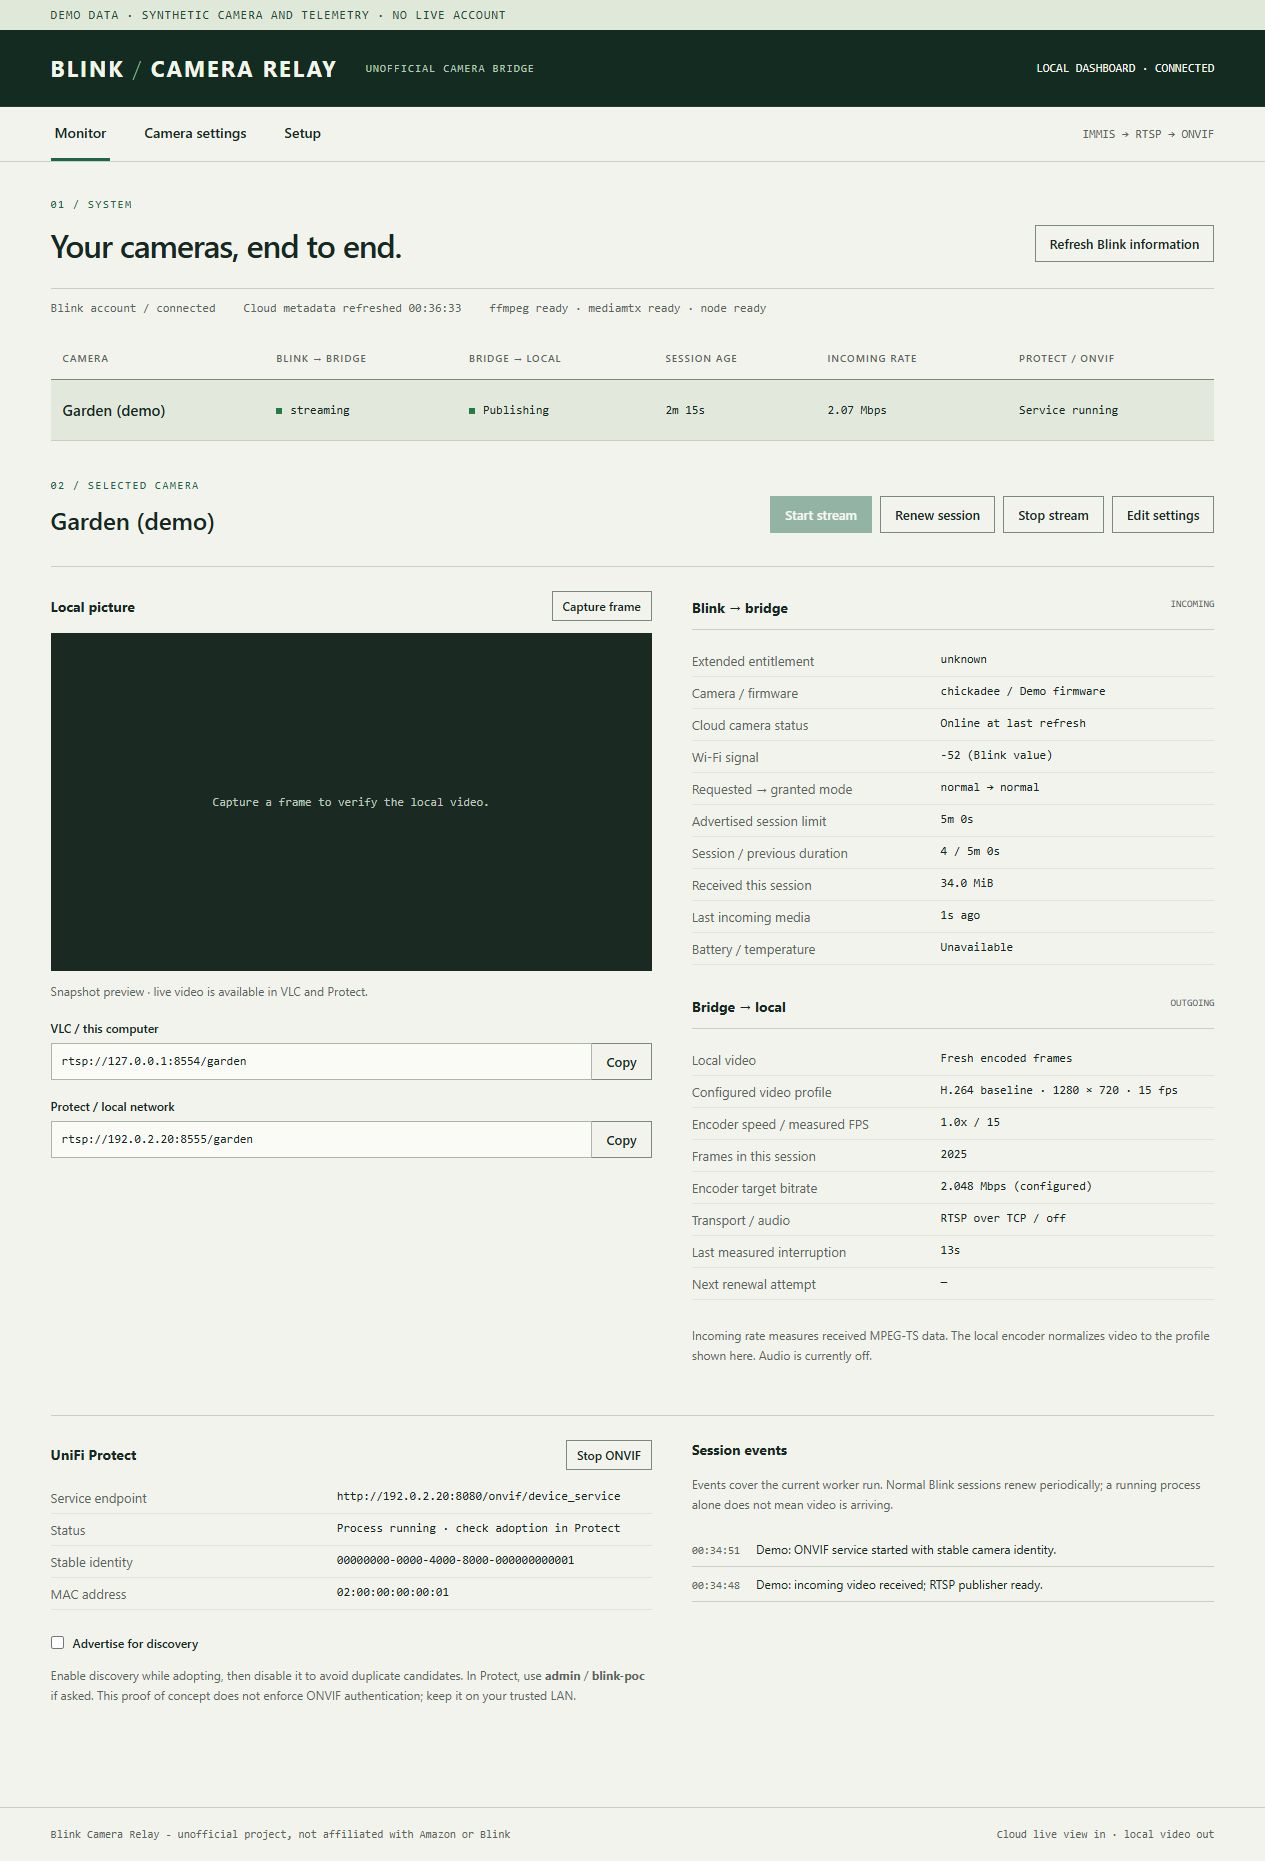
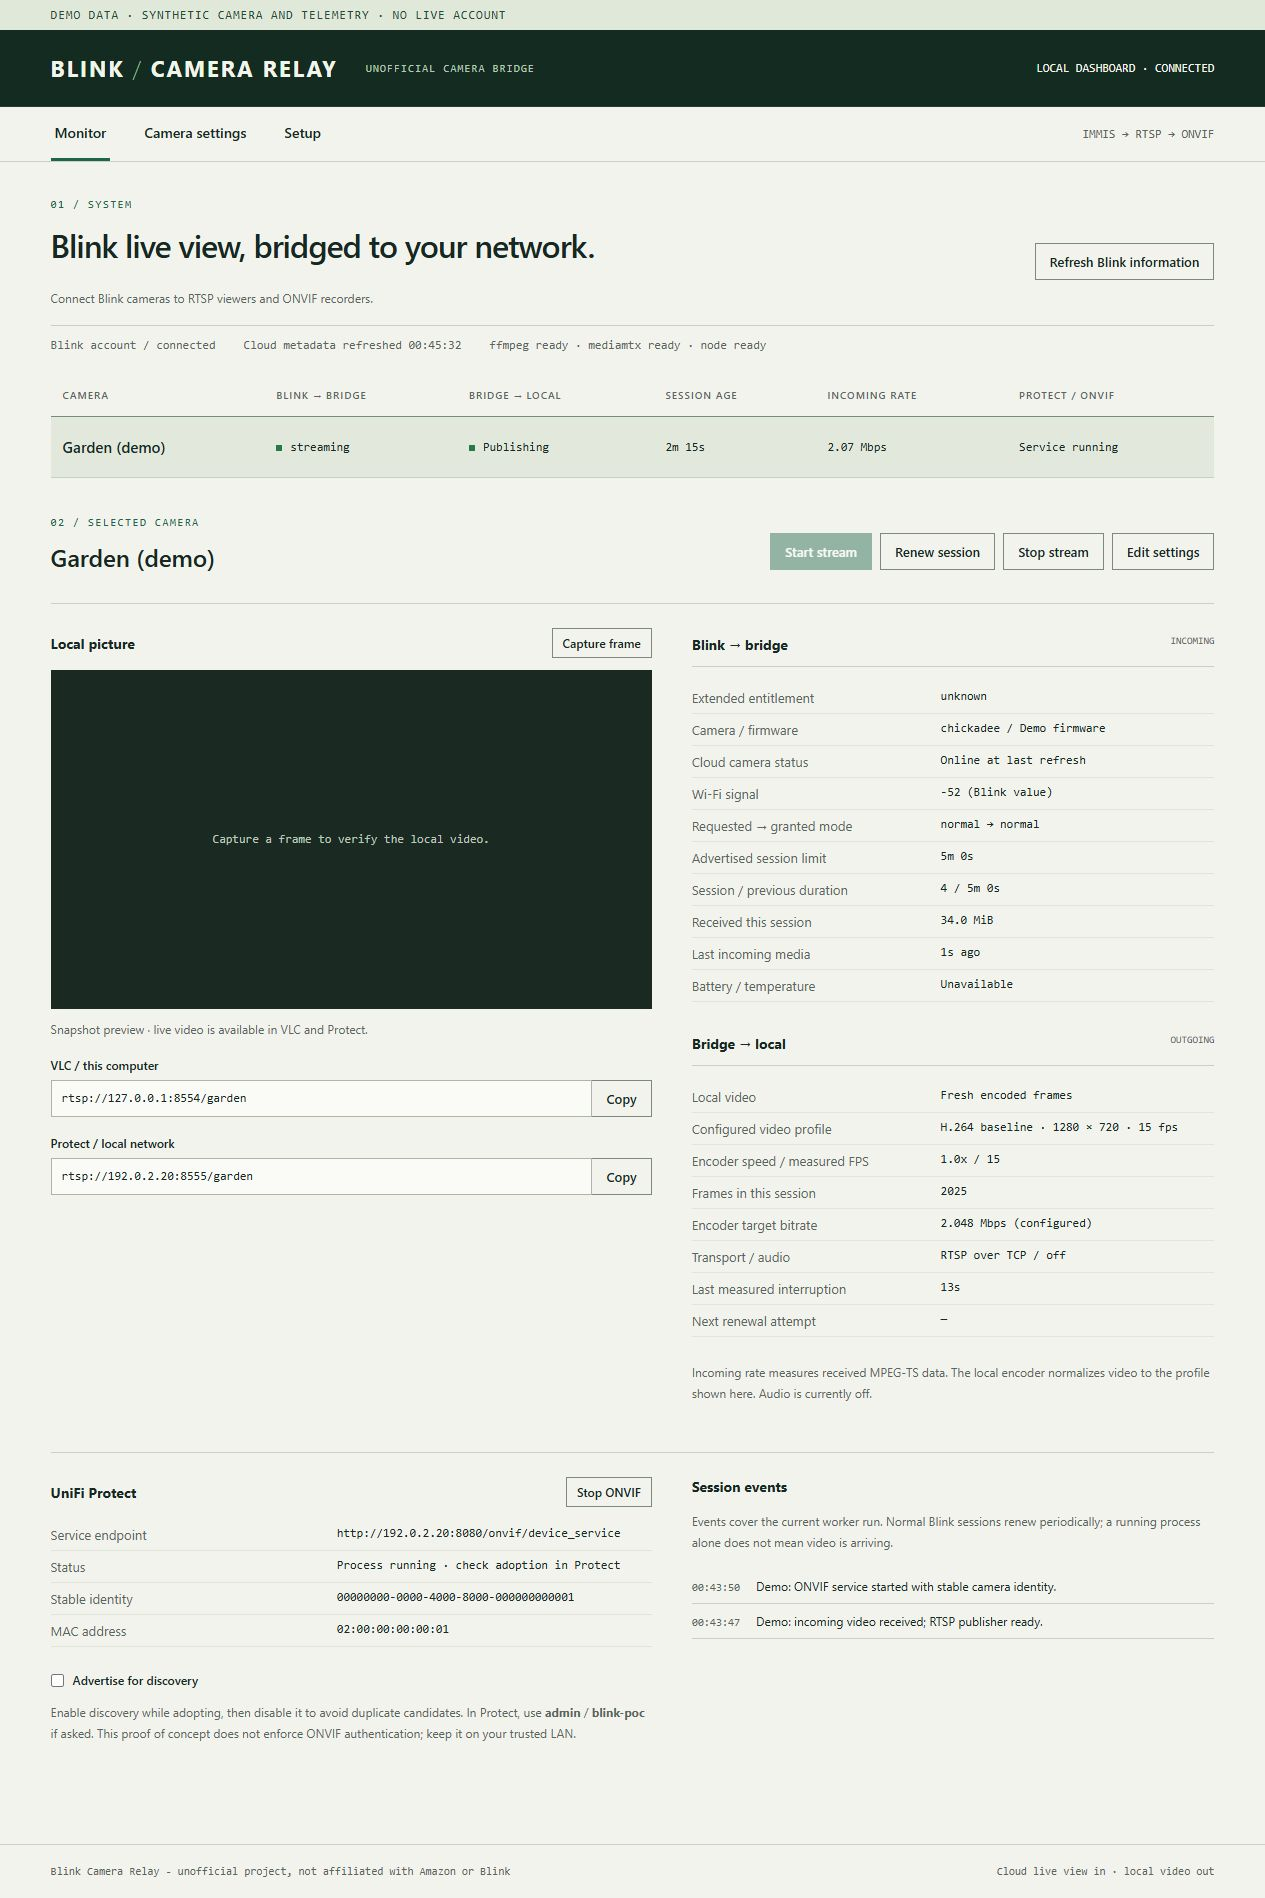
Clarify dashboard tagline describes bridging Blink live view

diff --git a/bridge/static/index.html b/bridge/static/index.html
@@ -6,7 +6,7 @@
 <div id="notice" role="status" hidden></div>
 <main>
 <section id="monitor" class="tab">
-<div class="section-heading"><div><p class="eyebrow">01 / SYSTEM</p><h1>Your cameras, end to end.</h1></div><button id="refresh">Refresh Blink information</button></div>
+<div class="section-heading"><div><p class="eyebrow">01 / SYSTEM</p><h1>Blink live view, bridged to your network.</h1><p class="caption">Connect Blink cameras to RTSP viewers and ONVIF recorders.</p></div><button id="refresh">Refresh Blink information</button></div>
 <div class="system-line"><span id="account-summary">Account not connected</span><span id="catalog-time">No cloud refresh yet</span><span id="runtime-summary"></span></div>
 <div class="table-scroll"><table class="cameras"><thead><tr><th>Camera</th><th>Blink → bridge</th><th>Bridge → local</th><th>Session age</th><th>Incoming rate</th><th>Protect / ONVIF</th></tr></thead><tbody id="camera-rows"></tbody></table></div>
 <div id="empty" hidden><h2>Start with your Blink account.</h2><p>Connect an account, select a camera, then start its local stream.</p><button data-tab="setup">Open setup</button></div>
@@ -39,4 +39,3 @@
 </section>
 </main><footer><span>Blink Camera Relay - unofficial project, not affiliated with Amazon or Blink</span><span>Cloud live view in · local video out</span></footer>
 </body></html>
-
